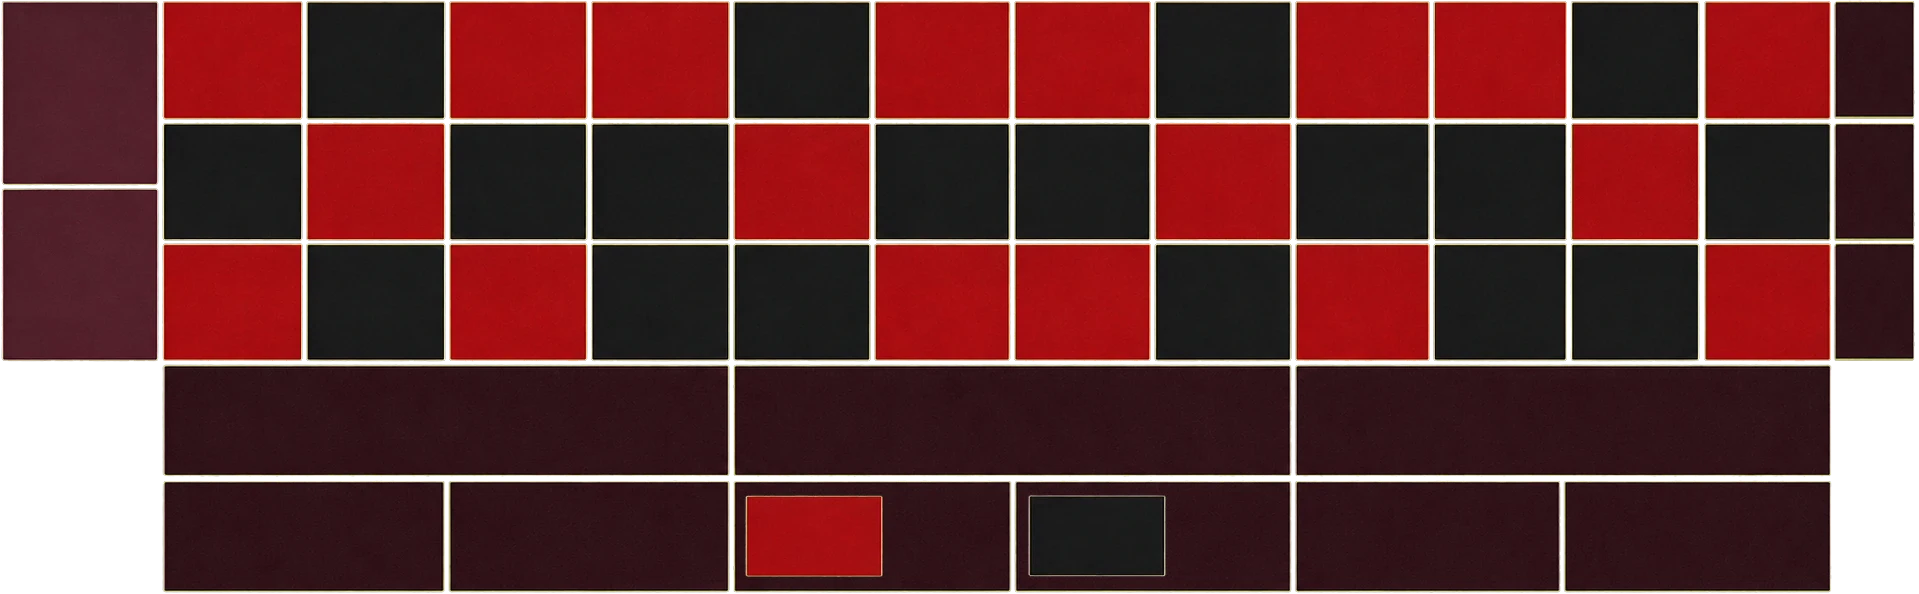
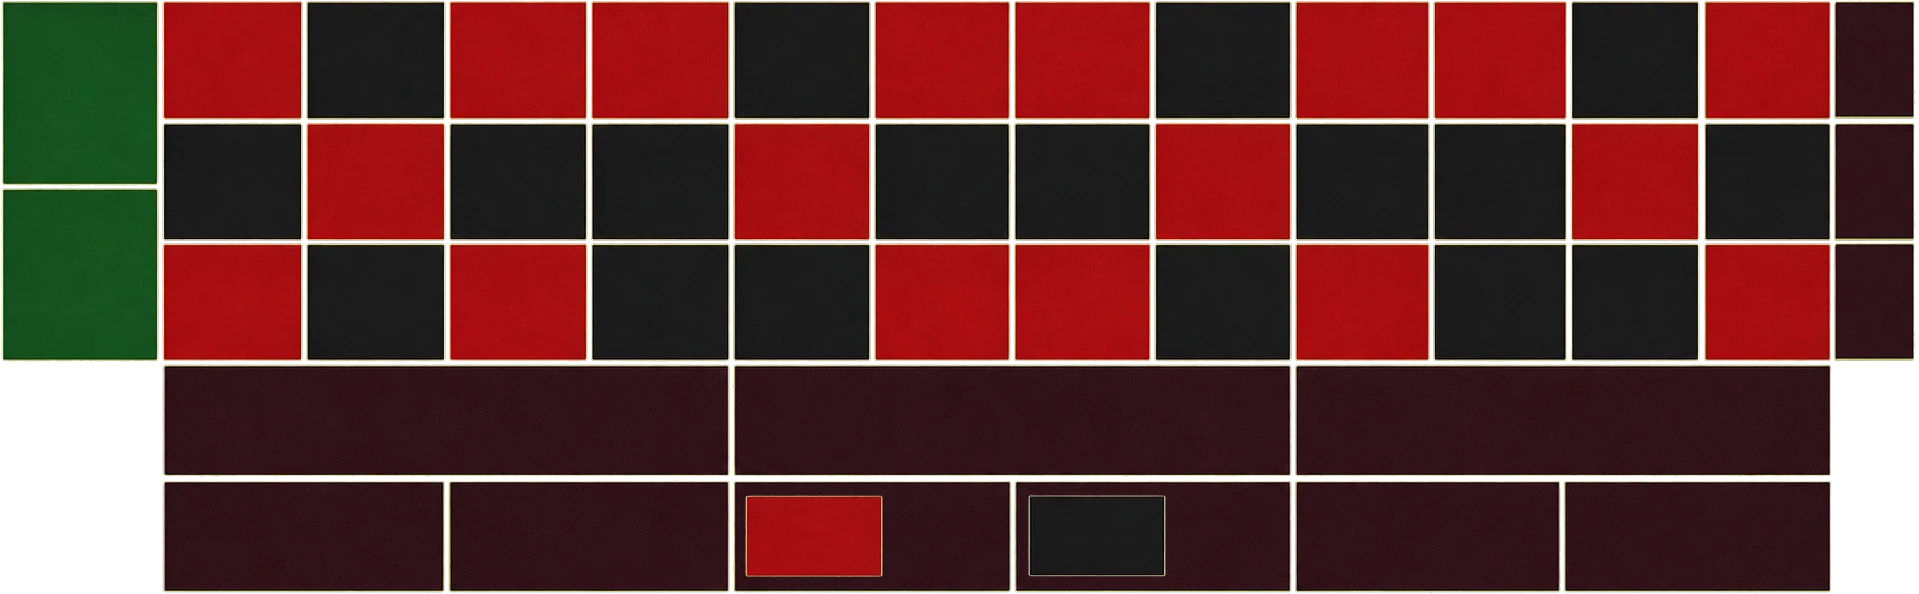
Roulette: keep 0/00 cells green on every felt palette
The felt palettes hue-shifted the green band, which recolored the 0/00
pocket cells along with the felt. Green is roulette's colour language
(like red/black), so add a keep-region over the 0/00 column in
grade_felt_art.py and regenerate all six graded felts. 0/00 now stays
casino green on ivory/emerald/obsidian/sapphire/burgundy/rose; felt
still tints, red/black cells unchanged. Bumped felt image cache-bust to
v=2, roulette Ver. 0.0.50.

Changed region(s): [[0.0, 0.0, 0.0922, 0.6061]]

diff --git a/roulette.html b/roulette.html
@@ -305,12 +305,12 @@ body{--chip:82px;--edge:calc(var(--chip)*0.16)}
   --ink:#ffffff;--ink-rgb:255,255,255;--ink-soft:rgba(255,255,255,.6);
   --ink-accent:#ffe066;--ink-accent-rgb:255,224,102;--ink-good:#7ee87e;
 }
-body[data-felt="ivory"] #rl-panel{background-image:url('roulett_felt_ivory.webp?v=1')}
-body[data-felt="emerald"] #rl-panel{background-image:url('roulett_felt_emerald.webp?v=1')}
-body[data-felt="obsidian"] #rl-panel{background-image:url('roulett_felt_obsidian.webp?v=1')}
-body[data-felt="sapphire"] #rl-panel{background-image:url('roulett_felt_sapphire.webp?v=1')}
-body[data-felt="burgundy"] #rl-panel{background-image:url('roulett_felt_burgundy.webp?v=1')}
-body[data-felt="rose"] #rl-panel{background-image:url('roulett_felt_rose.webp?v=1')}
+body[data-felt="ivory"] #rl-panel{background-image:url('roulett_felt_ivory.webp?v=2')}
+body[data-felt="emerald"] #rl-panel{background-image:url('roulett_felt_emerald.webp?v=2')}
+body[data-felt="obsidian"] #rl-panel{background-image:url('roulett_felt_obsidian.webp?v=2')}
+body[data-felt="sapphire"] #rl-panel{background-image:url('roulett_felt_sapphire.webp?v=2')}
+body[data-felt="burgundy"] #rl-panel{background-image:url('roulett_felt_burgundy.webp?v=2')}
+body[data-felt="rose"] #rl-panel{background-image:url('roulett_felt_rose.webp?v=2')}
 </style>
 </head>
 <body>
@@ -369,7 +369,7 @@ body[data-felt="rose"] #rl-panel{background-image:url('roulett_felt_rose.webp?v=
   <!-- TOP ROW -->
   <div id="top-row">
     <div id="left-col-header">
-      <div id="version-tag" style="font-size:10px;color:rgba(255,255,255,.35);letter-spacing:.04em;text-align:center">Ver. 0.0.49</div>
+      <div id="version-tag" style="font-size:10px;color:rgba(255,255,255,.35);letter-spacing:.04em;text-align:center">Ver. 0.0.50</div>
       <div style="display:flex;align-items:center;gap:4px">
         <button class="gmode-btn-home" onclick="dNav('index.html')" style="flex:1">🏠 HOME<span class="gmode-sub">Choose a game</span></button>
         <button class="info-circle-btn" data-icalib="roulette:header" data-icalib-box="#game-screen" onclick="GameInstructions.open('roulette')" title="How to play">i</button>

diff --git a/tools/grade_felt_art.py b/tools/grade_felt_art.py
@@ -6,11 +6,12 @@ THE RULE: SHIFT HUE, PRESERVE LUMINANCE
 Only pixels already in the GREEN band are retinted, and each keeps its own
 brightness. Two consequences, both deliberate:
 
-  * Roulette's red and black number cells are outside the band and are never
-    touched. They are the game's colour language, not decor -- a themed roulette
-    layout that recolours red/black would be unreadable as roulette. The green
-    0/00 cells shift hue but hold their original lightness, so they stay distinct
-    from the black cells on every palette, including the near-black one.
+  * Roulette's red, black AND green number cells are all preserved -- they are
+    the game's colour language, not decor. Red/black sit outside the hue band and
+    are never touched. The green 0/00 cells DO sit inside the band (they are the
+    same green as the felt), so they are protected by an explicit keep-region over
+    the 0/00 column instead: on every palette a 0 or 00 stays casino green, exactly
+    as it must on a real wheel, no matter what colour the surrounding felt becomes.
 
   * A themed felt stays a FELT. Ivory does not turn the table cream; it turns it
     tan, at the same depth as the original green. That matters because I Luv Suits
@@ -23,8 +24,8 @@ chips and black outlines pass through untouched. Saturated non-green ink -- the
 blue ANTE/PLAY chips, the red heart in the logo, gold lettering -- is outside the
 hue band and likewise survives.
 
-The I Luv Suits brand mark additionally carries a rectangular keep-region, given
-in fractions of the image so it survives a re-export at another size.
+Keep-regions (the roulette 0/00 column, the I Luv Suits brand mark) are given in
+fractions of the image so they survive a re-export at another size.
 """
 import numpy as np
 from PIL import Image
@@ -43,7 +44,8 @@ PALETTES = {
 }
 
 JOBS = [
-    dict(src='roulett_felt.webp', keep=None),
+    dict(src='roulett_felt.webp', keep=(0.0, 0.0, 0.083, 0.615)),   # green 0/00 column
+
     dict(src='iLuvSuits_Felt.webp', keep=(0.71, 0.14, 0.98, 0.34)),   # I LOVE SUITS mark
     dict(src='iLuvSuits_port.webp', keep=None),
 ]
